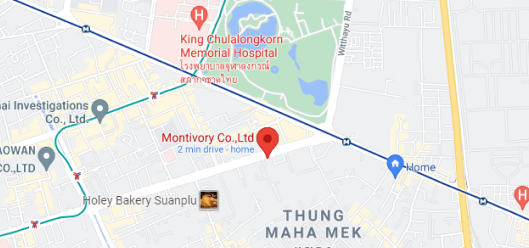
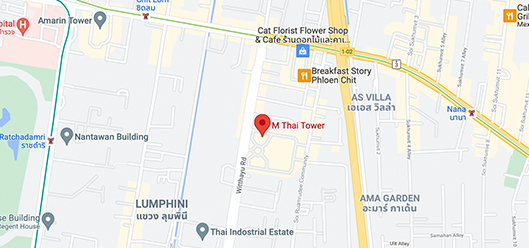
update new address at the footer

diff --git a/career.html b/career.html
@@ -927,11 +927,10 @@
         <path d="M18.4635 23.763C18.305 23.6838 18.305 23.4462 18.4635 23.2878L18.7804 23.2086C19.4144 23.1294 19.4144 22.971 19.4144 21.7036V19.169C19.4144 17.9809 18.8597 17.3472 17.7503 17.3472C17.0372 17.3472 16.5617 17.664 16.2448 17.9809C16.0863 18.1393 16.0071 18.2977 16.0071 18.6145V22.971V23.367C16.0071 23.6046 15.8486 23.763 15.6109 23.763H14.4223C14.2638 23.763 14.1053 23.6046 14.1846 23.4462C14.1846 23.4462 14.1846 23.367 14.2638 23.367H14.343C14.66 23.367 14.7392 23.367 14.7392 22.8917V18.6145C14.7392 17.9016 14.7392 17.8224 14.2638 17.5056L14.1053 17.4264C14.0261 17.3472 14.0261 17.1888 14.1053 17.1096C14.5015 16.9512 15.5316 16.4759 15.8486 16.2383C15.9278 16.2383 16.0071 16.2383 16.0071 16.3967C16.0071 16.7927 16.0071 17.0304 16.0071 17.268C16.0071 17.3472 16.0863 17.4264 16.1655 17.4264C16.7995 16.9512 17.6711 16.5551 18.5427 16.5551C19.4144 16.5551 19.8898 16.8719 20.4445 17.5848C20.6029 17.5848 20.7614 17.5848 20.9199 17.4264C21.6331 16.9512 22.5047 16.5551 23.2971 16.5551C24.7234 16.5551 25.4365 17.5056 25.4365 18.7729V19.4066V22.971V23.0502C25.4365 23.4462 25.5158 23.4462 25.8327 23.4462H25.912C25.912 23.4462 25.9912 23.4462 25.9912 23.5254C26.0705 23.6838 25.912 23.8422 25.7535 23.8422H24.5649C24.3272 23.8422 24.1687 23.6838 24.1687 23.4462V22.971V19.3274V19.169C24.1687 17.9809 23.614 17.3472 22.5047 17.3472C21.8708 17.3472 21.3161 17.664 20.9991 17.9809C20.7614 18.2185 20.7614 18.4561 20.7614 19.0106V21.7036C20.7614 22.971 20.7614 23.1294 21.3953 23.2086L21.7915 23.2878C21.95 23.367 21.8708 23.6838 21.7915 23.763C21.2369 23.763 20.7614 23.6838 20.1275 23.6838C19.4144 23.6838 18.9389 23.763 18.4635 23.763Z" fill="#182B45"/>
         <path d="M28.6854 28.6736C26.4667 30.8914 23.2179 31.525 20.8407 31.0498C20.7614 30.8914 20.7614 30.8122 20.8407 30.733C23.2179 30.6538 25.5158 29.7033 27.6553 27.5646C29.7947 25.426 30.7456 23.2082 30.8248 20.7528C30.9041 20.6736 31.0626 20.6736 31.1418 20.7528C31.6172 23.2082 30.9041 26.4557 28.6854 28.6736Z" fill="#182B45"/>
       </svg>
-      <p class="text-body1 text-white py-5 xl:py-8">Montivory Co.,LTD<br>
-        25 Bangkok Insurance Building, 20th floor,<br>
-        South Sathorn Road,Thung Maha Mek, Sathorn,<br>
-        Bangkok, Thailand 10120</p>
-      <p class="text-body1 text-white mb-8">
+      <p class="text-body1 text-white py-5 xl:py-9">Montivory Co.,LTD<br>
+        87 M Thai tower 22th floor, Witthayu road,<br>
+        Lumpini, Pathumwan Bangkok 10330<br>
+      <p class="text-body1 text-white mb-10">
         +66 2 286 6548<br>
         Mon- Fri ( 09:00 - 18:00 )<br>
         info@montivory.com
@@ -939,23 +938,23 @@
       <p class="hidden xl:flex text-body1 text-white">© 2021 Montivory</p>
     </div>
     <div class="flex flex-col xl:w-5/12">
-      <div class="flex justify-end items-start mb-12">
+      <a class="flex justify-end items-start mb-12">
         <img class="w-full" src="images/officemap.png" alt="montivory'sofficemap">
-      </div>
+      </a>
       <div class="flex justify-center xl:justify-end mb-4"> 
-        <div class="mr-4">
+        <div class="pr-4">
           <svg class ="" width="24" height="24" viewBox="0 0 24 24" fill="none" xmlns="http://www.w3.org/2000/svg">
             <path fill-rule="evenodd" clip-rule="evenodd" d="M10.7574 2.75736C11.8826 1.63214 13.4087 1 15 1H18C18.5523 1 19 1.44772 19 2V6C19 6.55228 18.5523 7 18 7H15V9H18C18.3079 9 18.5987 9.14187 18.7882 9.38459C18.9777 9.6273 19.0448 9.94379 18.9701 10.2425L17.9701 14.2425C17.8589 14.6877 17.4589 15 17 15H15V22C15 22.5523 14.5523 23 14 23H10C9.44772 23 9 22.5523 9 22V15H7C6.44772 15 6 14.5523 6 14V10C6 9.44772 6.44772 9 7 9H9V7C9 5.4087 9.63214 3.88258 10.7574 2.75736Z" fill="white"/>
           </svg>
         </div>
-        <div class="mr-4">
+        <div class="pr-4">
           <svg width="24" height="24" viewBox="0 0 24 24" fill="none" xmlns="http://www.w3.org/2000/svg">
             <g clip-path="url(#clip0)">
             <path fill-rule="evenodd" clip-rule="evenodd" d="M14.5256 2.34999C15.5744 1.94969 16.7208 1.88114 17.8099 2.15363C18.6759 2.37032 19.4724 2.79436 20.1327 3.38491C20.9449 3.08639 21.7152 2.68238 22.4237 2.18264C22.7643 1.94237 23.2183 1.93859 23.5628 2.17316C23.9074 2.40772 24.0703 2.83142 23.9717 3.23642C23.6292 4.64294 22.9426 5.93937 21.977 7.01077C21.9918 7.17217 21.9996 7.33424 22.0001 7.4965L22.0001 7.4998C22.0001 13.5997 19.0632 18.0748 14.845 20.32C10.651 22.5523 5.29097 22.5276 0.51446 19.874C0.109649 19.6491 -0.0877967 19.1757 0.0372519 18.7298C0.162301 18.2839 0.577127 17.9822 1.03985 18.0006C2.72666 18.0677 4.39647 17.7323 5.91484 17.0328C4.41169 16.1052 3.32952 15.004 2.57716 13.8161C1.57353 12.2314 1.19466 10.5527 1.12613 9.04521C1.05781 7.54209 1.29658 6.1887 1.54758 5.21817C1.67368 4.73058 1.80452 4.3333 1.90538 4.05433C1.95587 3.91469 1.99901 3.80421 2.03054 3.72638C2.04631 3.68745 2.0592 3.65665 2.06866 3.63439L2.08023 3.60747L2.08398 3.59891L2.08531 3.59587L2.08585 3.59466C2.08585 3.59466 2.08629 3.59366 3.0001 3.9998L2.08629 3.59366C2.2326 3.26446 2.54468 3.0394 2.90324 3.0045C3.2618 2.96961 3.61142 3.13027 3.81846 3.42509C4.734 4.72877 5.95775 5.78579 7.38071 6.50202C8.51256 7.07171 9.7425 7.41172 10.9998 7.50622C10.9924 6.39655 11.3221 5.31046 11.9457 4.39186C12.5762 3.46306 13.4768 2.7503 14.5256 2.34999Z" fill="white"/></g> <defs>
             <clipPath id="clip0"> <rect width="24" height="24" fill="white"/></clipPath></defs>
           </svg>
         </div>
-        <div class="mr-4">
+        <div class="pr-4">
           <svg width="24" height="24" viewBox="0 0 24 24" fill="none" xmlns="http://www.w3.org/2000/svg">
             <path fill-rule="evenodd" clip-rule="evenodd" d="M7 3C4.79086 3 3 4.79086 3 7V17C3 19.2091 4.79086 21 7 21H17C19.2091 21 21 19.2091 21 17V7C21 4.79086 19.2091 3 17 3H7ZM1 7C1 3.68629 3.68629 1 7 1H17C20.3137 1 23 3.68629 23 7V17C23 20.3137 20.3137 23 17 23H7C3.68629 23 1 20.3137 1 17V7Z" fill="white"/>
             <path fill-rule="evenodd" clip-rule="evenodd" d="M12.483 8.989C11.8588 8.89644 11.2214 9.00305 10.6613 9.29368C10.1012 9.5843 9.64697 10.0441 9.36327 10.6078C9.07957 11.1714 8.98083 11.8102 9.08108 12.4332C9.18132 13.0562 9.47546 13.6317 9.92165 14.0779C10.3678 14.5241 10.9434 14.8182 11.5664 14.9184C12.1894 15.0187 12.8281 14.9199 13.3917 14.6363C13.9554 14.3526 14.4152 13.8984 14.7058 13.3383C14.9965 12.7782 15.1031 12.1407 15.0105 11.5165C14.9161 10.8798 14.6194 10.2904 14.1643 9.83523C13.7092 9.3801 13.1197 9.08341 12.483 8.989ZM9.74012 7.51843C10.6736 7.03406 11.7361 6.85637 12.7764 7.01063C13.8375 7.16799 14.82 7.66246 15.5785 8.42101C16.3371 9.17957 16.8315 10.162 16.9889 11.2231C17.1432 12.2634 16.9655 13.3259 16.4811 14.2594C15.9967 15.1929 15.2303 15.9499 14.2909 16.4227C13.3515 16.8955 12.287 17.0601 11.2486 16.893C10.2103 16.726 9.25109 16.2357 8.50744 15.4921C7.76379 14.7484 7.27356 13.7892 7.10648 12.7509C6.9394 11.7126 7.10397 10.648 7.5768 9.7086C8.04963 8.7692 8.80662 8.00281 9.74012 7.51843Z" fill="white"/>

diff --git a/index.html b/index.html
@@ -996,11 +996,10 @@
         <path d="M18.4635 23.763C18.305 23.6838 18.305 23.4462 18.4635 23.2878L18.7804 23.2086C19.4144 23.1294 19.4144 22.971 19.4144 21.7036V19.169C19.4144 17.9809 18.8597 17.3472 17.7503 17.3472C17.0372 17.3472 16.5617 17.664 16.2448 17.9809C16.0863 18.1393 16.0071 18.2977 16.0071 18.6145V22.971V23.367C16.0071 23.6046 15.8486 23.763 15.6109 23.763H14.4223C14.2638 23.763 14.1053 23.6046 14.1846 23.4462C14.1846 23.4462 14.1846 23.367 14.2638 23.367H14.343C14.66 23.367 14.7392 23.367 14.7392 22.8917V18.6145C14.7392 17.9016 14.7392 17.8224 14.2638 17.5056L14.1053 17.4264C14.0261 17.3472 14.0261 17.1888 14.1053 17.1096C14.5015 16.9512 15.5316 16.4759 15.8486 16.2383C15.9278 16.2383 16.0071 16.2383 16.0071 16.3967C16.0071 16.7927 16.0071 17.0304 16.0071 17.268C16.0071 17.3472 16.0863 17.4264 16.1655 17.4264C16.7995 16.9512 17.6711 16.5551 18.5427 16.5551C19.4144 16.5551 19.8898 16.8719 20.4445 17.5848C20.6029 17.5848 20.7614 17.5848 20.9199 17.4264C21.6331 16.9512 22.5047 16.5551 23.2971 16.5551C24.7234 16.5551 25.4365 17.5056 25.4365 18.7729V19.4066V22.971V23.0502C25.4365 23.4462 25.5158 23.4462 25.8327 23.4462H25.912C25.912 23.4462 25.9912 23.4462 25.9912 23.5254C26.0705 23.6838 25.912 23.8422 25.7535 23.8422H24.5649C24.3272 23.8422 24.1687 23.6838 24.1687 23.4462V22.971V19.3274V19.169C24.1687 17.9809 23.614 17.3472 22.5047 17.3472C21.8708 17.3472 21.3161 17.664 20.9991 17.9809C20.7614 18.2185 20.7614 18.4561 20.7614 19.0106V21.7036C20.7614 22.971 20.7614 23.1294 21.3953 23.2086L21.7915 23.2878C21.95 23.367 21.8708 23.6838 21.7915 23.763C21.2369 23.763 20.7614 23.6838 20.1275 23.6838C19.4144 23.6838 18.9389 23.763 18.4635 23.763Z" fill="#182B45"/>
         <path d="M28.6854 28.6736C26.4667 30.8914 23.2179 31.525 20.8407 31.0498C20.7614 30.8914 20.7614 30.8122 20.8407 30.733C23.2179 30.6538 25.5158 29.7033 27.6553 27.5646C29.7947 25.426 30.7456 23.2082 30.8248 20.7528C30.9041 20.6736 31.0626 20.6736 31.1418 20.7528C31.6172 23.2082 30.9041 26.4557 28.6854 28.6736Z" fill="#182B45"/>
       </svg>
-      <p class="text-body1 text-white py-5 xl:py-8">Montivory Co.,LTD<br>
-        25 Bangkok Insurance Building, 20th floor,<br>
-        South Sathorn Road,Thung Maha Mek, Sathorn,<br>
-        Bangkok, Thailand 10120</p>
-      <p class="text-body1 text-white mb-8">
+      <p class="text-body1 text-white py-5 xl:py-9">Montivory Co.,LTD<br>
+        87 M Thai tower 22th floor, Witthayu road,<br>
+        Lumpini, Pathumwan Bangkok 10330<br>
+      <p class="text-body1 text-white mb-10">
         +66 2 286 6548<br>
         Mon- Fri ( 09:00 - 18:00 )<br>
         info@montivory.com
@@ -1008,9 +1007,9 @@
       <p class="hidden xl:flex text-body1 text-white">© 2021 Montivory</p>
     </div>
     <div class="flex flex-col xl:w-5/12">
-      <div class="flex justify-end items-start mb-12">
+      <a class="flex justify-end items-start mb-12">
         <img class="w-full" src="images/officemap.png" alt="montivory'sofficemap">
-      </div>
+      </a>
       <div class="flex justify-center xl:justify-end mb-4"> 
         <div class="pr-4">
           <svg class ="" width="24" height="24" viewBox="0 0 24 24" fill="none" xmlns="http://www.w3.org/2000/svg">
